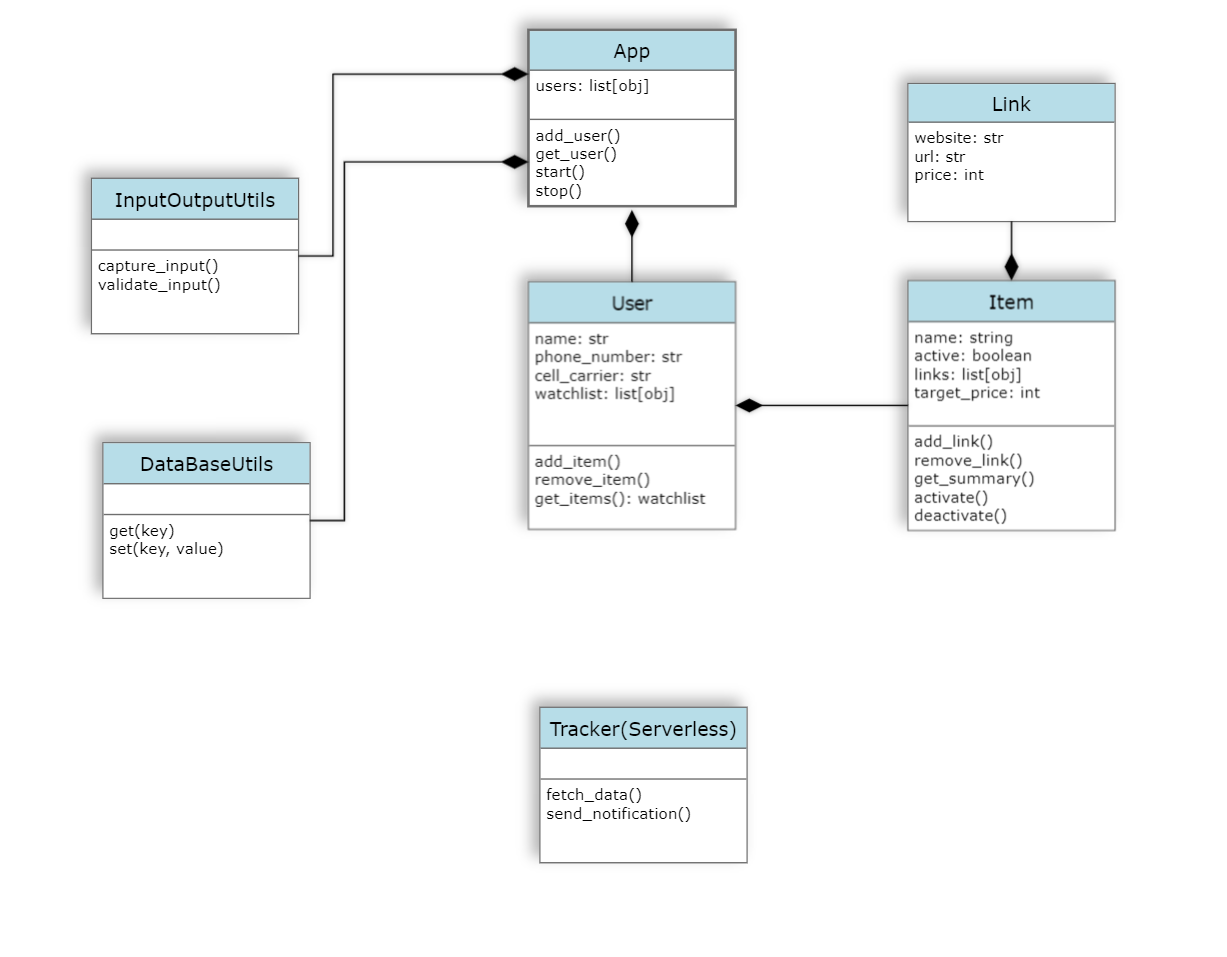
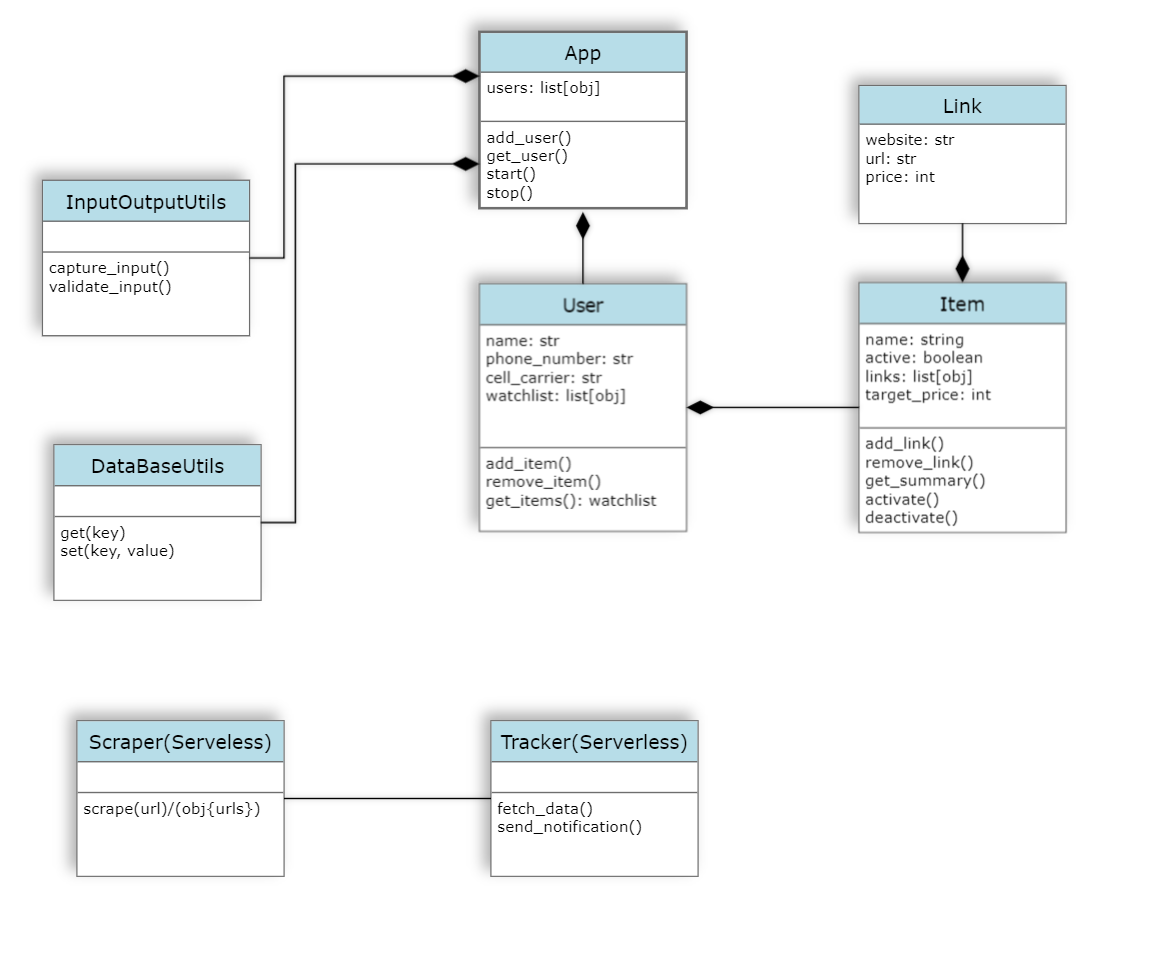
updated uml, formatted readme

Changed region(s): [[0.0, 0.0, 0.9294, 0.6384], [0.031, 0.7296, 0.6196, 0.9119]]

diff --git a/README.md b/README.md
@@ -3,26 +3,28 @@
 This app allows you to add desired items from different online retailers to a watchlist and set your desired price. The app will notify you when the item price drops to the desired level via text notification.
 
 ## Authors
+
 Marni Hager, Jae Loney, Pedro Perez, Sergii Ottryshko
 
 ## User Stories
-https://python401.atlassian.net/wiki/spaces/US/pages/590051/User+Stories+-+My+Price+Scout
+
+<https://python401.atlassian.net/wiki/spaces/US/pages/590051/User+Stories+-+My+Price+Scout>
 
 ## Database Schema
 
-[“User”: {
-“Email”:”” : String
- “PhoneNumber”: “” : Integers
-“PhoneCarrier” : “” : String
-“ProductsList”: [] : List[object]
-}]
+[“User”: {  
+“Email”:”” : String  
+ “PhoneNumber”: “” : Integers  
+“PhoneCarrier” : “” : String  
+“ProductsList”: [] : List[object]  
+}]  
 The products class gives each item the attributes below:
 Product - Will have name/nickname(string), links to products(strings), current prices(integers), whether they are being tracked(Boolean), strike prices (integers).
 
 ## UML
 
-See the UML drawing by clicking [here](images/my-price-scout-uml.png)
+![UML](https://github.com/Cuatro-Programadores/my-price-scout/blob/main/images/my-price-scout-uml.png)
 
 ## Wireframe
 
-See the wireframe [here](images/Wireframe-MyPriceScout.png)
+![Wireframe](https://github.com/Cuatro-Programadores/my-price-scout/blob/main/images/Wireframe-MyPriceScout.png)
